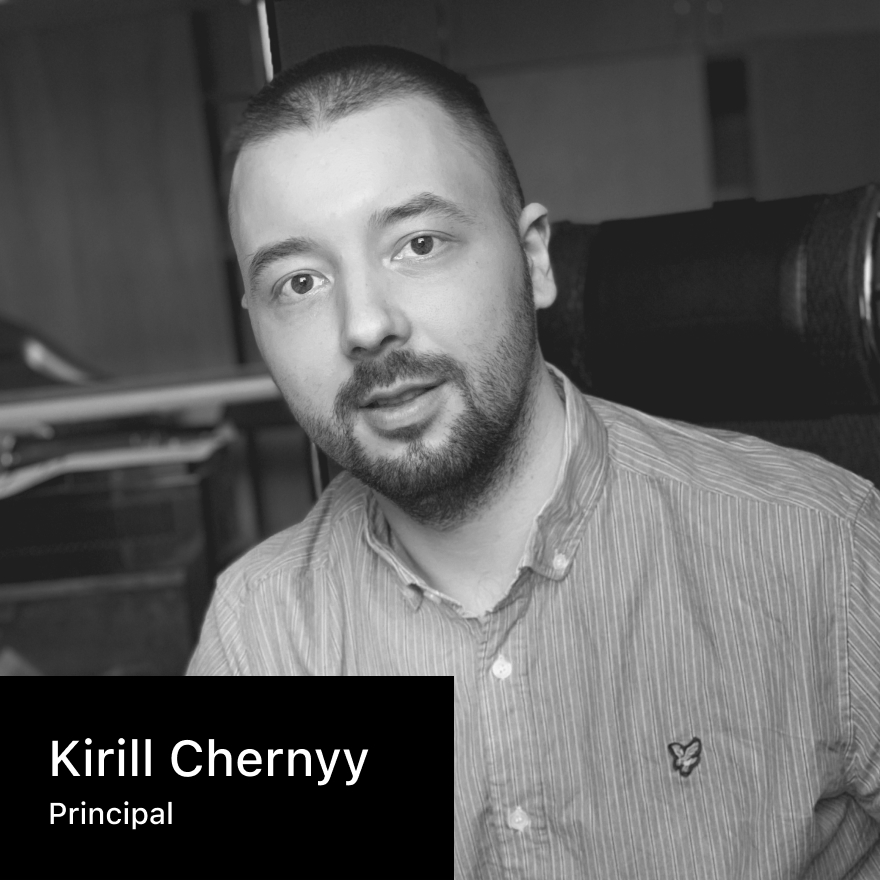
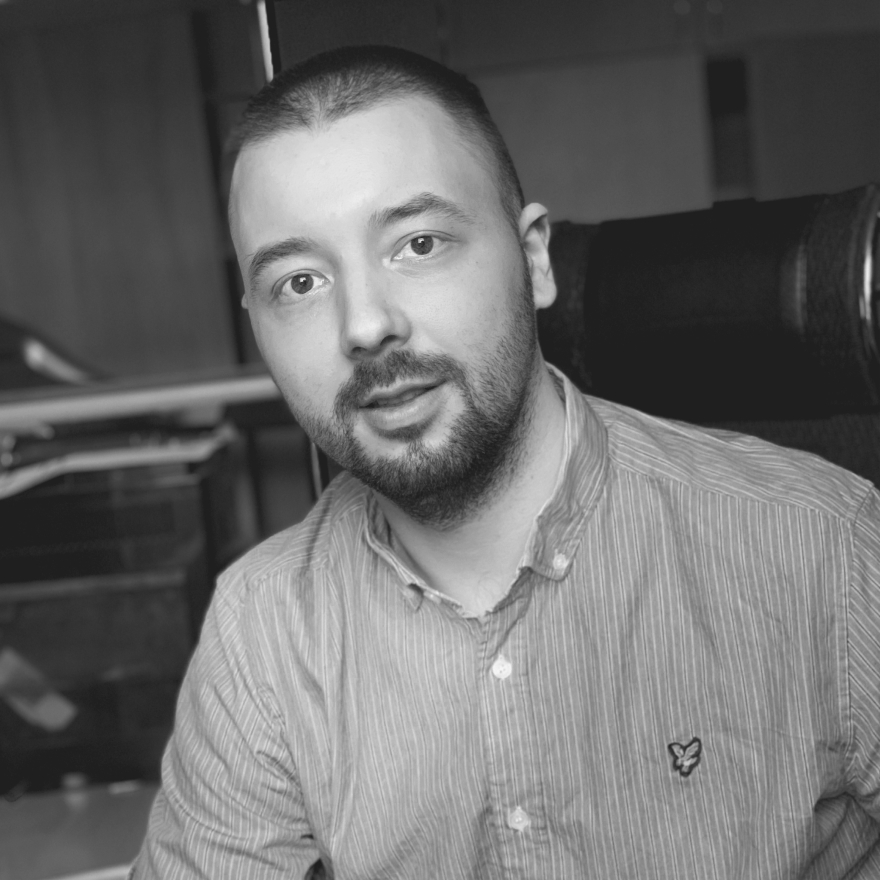
added about section

Changed region(s): [[0.0, 0.767, 0.5216, 1.0]]

diff --git a/build/css/main.min.css b/build/css/main.min.css
@@ -1,2 +1,2 @@
-@charset "UTF-8";*,::after,::before{-webkit-box-sizing:border-box;box-sizing:border-box}ol[class],ul[class]{padding:0}blockquote,body,dd,dl,figcaption,figure,h1,h2,h3,h4,h5,h6,li,ol[class],p,ul[class]{margin:0}html{scroll-behavior:smooth}body{min-height:100vh;scroll-behavior:smooth;text-rendering:optimizeSpeed;line-height:1.35}ol[class],ul[class]{list-style:none}a:not([class]){-webkit-text-decoration-skip:ink;text-decoration-skip-ink:auto}img{max-width:100%;display:block}article>*+*{margin-top:1em}button,input,select,textarea{font:inherit}@media (prefers-reduced-motion:reduce){*{-webkit-animation-duration:0s!important;animation-duration:0s!important;-webkit-animation-iteration-count:1!important;animation-iteration-count:1!important;-webkit-transition-duration:0s!important;-o-transition-duration:0s!important;transition-duration:0s!important;scroll-behavior:auto!important}}body{-webkit-font-smoothing:antialiased;-moz-font-smoothing:antialiased;-o-font-smoothing:antialiased;-webkit-locale:auto;white-space:normal}html{-moz-text-size-adjust:100%;-ms-text-size-adjust:100%;-o-text-size-adjust:100%;-webkit-text-size-adjust:100%;text-size-adjust:100%}@font-face{font-family:SF-Pro-Display;src:local("SFProDisplay-Bold"),url(../fonts/SFProDisplay-Bold.woff2) format("woff2"),url(../fonts/SFProDisplay-Bold.woff) format("woff");font-weight:700;font-style:normal;font-display:swap}@font-face{font-family:SF-Pro-Display;src:local("SFProDisplay-Semibold"),url(../fonts/SFProDisplay-Semibold.woff2) format("woff2"),url(../fonts/SFProDisplay-Semibold.woff) format("woff");font-weight:600;font-style:normal;font-display:swap}@font-face{font-family:SF-Pro-Display;src:local("SFProDisplay-Medium"),url(../fonts/SFProDisplay-Medium.woff2) format("woff2"),url(../fonts/SFProDisplay-Medium.woff) format("woff");font-weight:500;font-style:normal;font-display:swap}@font-face{font-family:SF-Pro-Display;src:local("SFProDisplay-Regular"),url(../fonts/SFProDisplay-Regular.woff2) format("woff2"),url(../fonts/SFProDisplay-Regular.woff) format("woff");font-weight:400;font-style:normal;font-display:swap}@font-face{font-family:SF-Pro-Text;src:local("SFUIText-Semibold"),url(../fonts/SFUIText-Semibold.woff2) format("woff2"),url(../fonts/SFUIText-Semibold.woff) format("woff");font-weight:500;font-style:normal;font-display:swap}@font-face{font-family:SF-Pro-Text;src:local("SFUIText-Medium"),url(../fonts/SFUIText-Medium.woff2) format("woff2"),url(../fonts/SFUIText-Medium.woff) format("woff");font-weight:500;font-style:normal;font-display:swap}@font-face{font-family:SF-Pro-Text;src:local("SFUIText-Regular"),url(../fonts/SFUIText-Regular.woff2) format("woff2"),url(../fonts/SFUIText-Regular.woff) format("woff");font-weight:500;font-style:normal;font-display:swap}html{font-size:16px}body{font-family:SF-Pro-Display,sans-serif;color:#000}.container{width:82.875vw;padding:0 15px;margin:0 auto;max-width:100%}@media only screen and (max-width:767px){.container{padding:0;width:calc(100% - 50px)}}.title{font-family:SF-Pro-Display,sans-serif}.title--bigest{font-weight:600;font-size:105px;line-height:90%}@media only screen and (min-width:1600px){.title--bigest{font-size:6.5625vw}}@media only screen and (max-width:1400px){.title--bigest{font-size:90px}}@media only screen and (max-width:1079px){.title--bigest{font-size:8.125vw}}@media only screen and (max-width:560px){.title--bigest{font-size:12.5vw;line-height:95%}}.title--white{color:#fff}.text{font-family:SF-Pro-Text,sans-serif}.text--big{font-weight:600;font-size:25px;line-height:130%;letter-spacing:.01em}@media only screen and (min-width:1600px){.text--big{font-size:1.5625vw}}@media only screen and (max-width:1079px){.text--big{font-size:2.1875vw}}@media only screen and (max-width:560px){.text--big{font-size:4.6875vw}}.text--white{color:#fff}.header{background-color:transparent;position:fixed;top:0;left:0;right:0;z-index:10}.header__burger{display:none}@media only screen and (max-width:767px){.header__burger{display:-webkit-box;display:-ms-flexbox;display:flex;-webkit-box-orient:vertical;-webkit-box-direction:normal;-ms-flex-direction:column;flex-direction:column;-webkit-box-pack:justify;-ms-flex-pack:justify;justify-content:space-between;position:relative;width:48px;height:18px}}@media only screen and (max-width:560px){.header__burger{width:7.5vw;height:2.8125vw}}.header__burger::after{content:"";position:absolute;width:12.5vw;height:8.4375vw;top:-2.8125vw;bottom:-2.8125vw;left:-2.5vw;right:-2.5vw}.header__line{width:100%;height:4px;background-color:#fff}@media only screen and (max-width:560px){.header__line{height:.625vw}}.header__wrapper{background-color:transparent;display:-webkit-box;display:-ms-flexbox;display:flex;-webkit-box-pack:justify;-ms-flex-pack:justify;justify-content:space-between;-webkit-box-align:center;-ms-flex-align:center;align-items:center;padding:36px 49px}@media only screen and (max-width:767px){.header__wrapper{padding:6.875vw 7.5vw}}@media only screen and (min-width:1600px){.header__wrapper{padding:2.25vw 3.0625vw}}.header__logo-link{text-decoration:none;text-transform:uppercase;font-weight:700;font-size:30px;line-height:1.2;color:#fff;letter-spacing:.03em}@media only screen and (min-width:1600px){.header__logo-link{font-size:1.875vw}}@media only screen and (max-width:560px){.header__logo-link{font-size:5.625vw}}.footer{position:fixed;bottom:0;left:0;right:0;z-index:10}@media only screen and (max-width:767px){.footer{display:none}}.footer__wrapper{display:-webkit-box;display:-ms-flexbox;display:flex;-webkit-box-pack:justify;-ms-flex-pack:justify;justify-content:space-between;padding:39px 47px}@media only screen and (min-width:1600px){.footer__wrapper{padding:2.1875vw 3.0625vw}}@media only screen and (max-width:767px){.footer__wrapper{padding:12.5vw 15.3125vw}}.footer__social .social__link:first-child svg{width:10px}@media only screen and (min-width:1600px){.footer__social .social__link:first-child svg{width:.625vw}}.footer__social .social__link:not(:last-child){margin-right:40px}@media only screen and (min-width:1600px){.footer__social .social__link:not(:last-child){margin-right:2.1875vw}}.footer__social svg{fill:#fff}.footer__copy{font-size:15px;line-height:1.2;font-family:SF-Pro-Text,sans-serif;font-weight:400;color:#fff}@media only screen and (min-width:1600px){.footer__copy{font-size:.9375vw}}.navigation{padding:0 0 10px}@media only screen and (min-width:1600px){.navigation{padding:0 0 .625vw}}@media only screen and (max-width:1079px){.navigation{padding:0}}@media only screen and (max-width:767px){.navigation{position:absolute;right:-150%;top:0;display:-webkit-box;display:-ms-flexbox;display:flex;-webkit-box-orient:vertical;-webkit-box-direction:normal;-ms-flex-direction:column;flex-direction:column;-webkit-box-pack:justify;-ms-flex-pack:justify;justify-content:space-between;height:100vh;width:100%;background-color:#fff;-webkit-transition:.3s linear;-o-transition:.3s linear;transition:.3s linear;padding:7.5vw 7.5vw 9.6875vw;z-index:100}}.navigation.is-active{right:0}.navigation .navigation__mobile-footer,.navigation .navigation__mobile-heading{display:none}@media only screen and (max-width:767px){.navigation .navigation__mobile-footer,.navigation .navigation__mobile-heading{display:-webkit-box;display:-ms-flexbox;display:flex;-webkit-box-align:center;-ms-flex-align:center;align-items:center;-webkit-box-pack:justify;-ms-flex-pack:justify;justify-content:space-between}}.navigation__list{display:-webkit-box;display:-ms-flexbox;display:flex}@media only screen and (max-width:767px){.navigation__list{-webkit-box-orient:vertical;-webkit-box-direction:normal;-ms-flex-direction:column;flex-direction:column;padding-bottom:37px!important}}.navigation__item:not(:last-child){margin-right:2.5vw}@media only screen and (max-width:767px){.navigation__item:not(:last-child){margin-right:0}}@media only screen and (max-width:767px){.navigation__item:not(:first-child){margin-top:20px}}.navigation__link{text-decoration:none;color:#fff;font-size:13px;text-transform:uppercase;font-weight:500;-webkit-transition:color .3s;-o-transition:color .3s;transition:color .3s}@media only screen and (max-width:767px){.navigation__link{color:#000;text-transform:capitalize;font-size:6.25vw;line-height:1.17857;font-weight:600;letter-spacing:.03em}}@media only screen and (max-width:560px){.navigation__link{font-size:8.75vw}}@media only screen and (min-width:1600px){.navigation__link{font-size:.8125vw}}@media (min-width:1080px){.navigation__link:hover{color:#cf3421}}.navigation__link.current{color:#cf3421}.navigation__close{position:relative;width:4.375vw;height:4.375vw;display:-webkit-box;display:-ms-flexbox;display:flex;-webkit-box-align:center;-ms-flex-align:center;align-items:center;-webkit-box-pack:center;-ms-flex-pack:center;justify-content:center;border:none;outline:0;background-color:transparent;padding:0}.navigation__close::after{content:"";position:absolute;width:12.5vw;height:12.5vw;left:-4.0625vw;top:-4.0625vw;right:-4.0625vw;bottom:-4.0625vw;background-color:transparent}.navigation__close svg{height:4.375vw;width:4.375vw}.navigation__copy{font-size:15px;line-height:18px;font-family:SF-Pro-Text,sans-serif;font-weight:400}.social{display:-webkit-box;display:-ms-flexbox;display:flex;-webkit-box-align:center;-ms-flex-align:center;align-items:center;-webkit-box-pack:justify;-ms-flex-pack:justify;justify-content:space-between;width:121px}@media only screen and (max-width:767px){.social{width:37.8125vw}}.social__link svg{height:18px;width:24px}@media only screen and (min-width:1600px){.social__link svg{height:1.125vw;width:1.5vw}}@media only screen and (max-width:560px){.social__link svg{height:3.75vw;width:5.9375vw}}@media only screen and (max-width:767px){.social__link svg{height:3.125vw;width:4.6875vw}}.home{background:#222 url(../images/home-bg.jpg) no-repeat center center/cover;height:100vh;display:-webkit-box;display:-ms-flexbox;display:flex;-webkit-box-orient:vertical;-webkit-box-direction:normal;-ms-flex-direction:column;flex-direction:column;padding-top:108px}@media only screen and (min-width:1600px){.home{padding-top:6.75vw}}.home__container{position:relative;height:100%}.home__content{position:absolute;left:15px;bottom:19.5%}@media only screen and (max-width:767px){.home__content{left:0;width:100%}}@media only screen and (max-width:560px){.home__content{bottom:11.1%}}.home__row{display:-webkit-box;display:-ms-flexbox;display:flex;-webkit-box-align:center;-ms-flex-align:center;align-items:center;-webkit-box-pack:justify;-ms-flex-pack:justify;justify-content:space-between;width:710px;padding-top:2.25vw}@media only screen and (min-width:1600px){.home__row{width:44.375vw}}@media only screen and (max-width:1400px){.home__row{padding-top:0;width:645px}}@media only screen and (max-width:1079px){.home__row{width:57.5vw}}@media only screen and (max-width:560px){.home__row{width:100%}}.home__text{max-width:263px;margin-top:45px}@media only screen and (min-width:1600px){.home__text{max-width:16.4375vw;margin-top:2.8125vw}}@media only screen and (max-width:1079px){.home__text{max-width:23.125vw;margin-top:2.8125vw}}@media only screen and (max-width:560px){.home__text{max-width:48.4375vw;margin-top:15.625vw}}.home__scroll-down{margin-top:35px}@media only screen and (min-width:1600px){.home__scroll-down{margin-top:2.1875vw}}@media only screen and (max-width:560px){.home__scroll-down{margin-top:10.625vw}}.home__scroll-down svg{width:22px;height:71px}@media only screen and (max-width:560px){.home__scroll-down svg{display:none}}.home__scroll-down svg:last-child{display:none}@media only screen and (max-width:560px){.home__scroll-down svg:last-child{display:block;height:14.375vw;width:4.375vw}}@media only screen and (max-width:1079px){.home__scroll-down svg{width:2.1875vw;height:7.0625vw}}
+@charset "UTF-8";*,::after,::before{-webkit-box-sizing:border-box;box-sizing:border-box}ol[class],ul[class]{padding:0}blockquote,body,dd,dl,figcaption,figure,h1,h2,h3,h4,h5,h6,li,ol[class],p,ul[class]{margin:0}html{scroll-behavior:smooth}body{min-height:100vh;scroll-behavior:smooth;text-rendering:optimizeSpeed;line-height:1.35}ol[class],ul[class]{list-style:none}a:not([class]){-webkit-text-decoration-skip:ink;text-decoration-skip-ink:auto}img{max-width:100%;display:block}article>*+*{margin-top:1em}button,input,select,textarea{font:inherit}@media (prefers-reduced-motion:reduce){*{-webkit-animation-duration:0s!important;animation-duration:0s!important;-webkit-animation-iteration-count:1!important;animation-iteration-count:1!important;-webkit-transition-duration:0s!important;-o-transition-duration:0s!important;transition-duration:0s!important;scroll-behavior:auto!important}}body{-webkit-font-smoothing:antialiased;-moz-font-smoothing:antialiased;-o-font-smoothing:antialiased;-webkit-locale:auto;white-space:normal}html{-moz-text-size-adjust:100%;-ms-text-size-adjust:100%;-o-text-size-adjust:100%;-webkit-text-size-adjust:100%;text-size-adjust:100%}@font-face{font-family:SF-Pro-Display;src:local("SFProDisplay-Bold"),url(../fonts/SFProDisplay-Bold.woff2) format("woff2"),url(../fonts/SFProDisplay-Bold.woff) format("woff");font-weight:700;font-style:normal;font-display:swap}@font-face{font-family:SF-Pro-Display;src:local("SFProDisplay-Semibold"),url(../fonts/SFProDisplay-Semibold.woff2) format("woff2"),url(../fonts/SFProDisplay-Semibold.woff) format("woff");font-weight:600;font-style:normal;font-display:swap}@font-face{font-family:SF-Pro-Display;src:local("SFProDisplay-Medium"),url(../fonts/SFProDisplay-Medium.woff2) format("woff2"),url(../fonts/SFProDisplay-Medium.woff) format("woff");font-weight:500;font-style:normal;font-display:swap}@font-face{font-family:SF-Pro-Display;src:local("SFProDisplay-Regular"),url(../fonts/SFProDisplay-Regular.woff2) format("woff2"),url(../fonts/SFProDisplay-Regular.woff) format("woff");font-weight:400;font-style:normal;font-display:swap}@font-face{font-family:SF-Pro-Text;src:local("SFUIText-Semibold"),url(../fonts/SFUIText-Semibold.woff2) format("woff2"),url(../fonts/SFUIText-Semibold.woff) format("woff");font-weight:500;font-style:normal;font-display:swap}@font-face{font-family:SF-Pro-Text;src:local("SFUIText-Medium"),url(../fonts/SFUIText-Medium.woff2) format("woff2"),url(../fonts/SFUIText-Medium.woff) format("woff");font-weight:500;font-style:normal;font-display:swap}@font-face{font-family:SF-Pro-Text;src:local("SFUIText-Regular"),url(../fonts/SFUIText-Regular.woff2) format("woff2"),url(../fonts/SFUIText-Regular.woff) format("woff");font-weight:500;font-style:normal;font-display:swap}html{font-size:16px}body{font-family:SF-Pro-Display,sans-serif;color:#000}.container{width:82.875vw;padding:0 15px;margin:0 auto;max-width:100%}@media only screen and (max-width:767px){.container{padding:0;width:calc(100% - 50px)}}.title{font-family:SF-Pro-Display,sans-serif}.title--bigest{font-weight:600;font-size:105px;line-height:90%}@media only screen and (min-width:1600px){.title--bigest{font-size:6.5625vw}}@media only screen and (max-width:1400px){.title--bigest{font-size:90px}}@media only screen and (max-width:1079px){.title--bigest{font-size:8.125vw}}@media only screen and (max-width:560px){.title--bigest{font-size:12.5vw;line-height:95%}}.title--medium{font-weight:600;font-size:2.875vw;line-height:1.08696}.title--white{color:#fff}.text{font-family:SF-Pro-Text,sans-serif;font-weight:400;font-size:15px;line-height:140%}@media only screen and (min-width:1600px){.text{font-size:.9375vw}}.text--big{font-weight:600;font-size:25px;line-height:130%;letter-spacing:.01em}@media only screen and (min-width:1600px){.text--big{font-size:1.5625vw}}@media only screen and (max-width:1079px){.text--big{font-size:2.1875vw}}@media only screen and (max-width:560px){.text--big{font-size:4.6875vw}}.text--small{font-size:13px}@media only screen and (min-width:1600px){.text--small{font-size:.8125vw}}.text--red{color:#cf3421}.text--upper{text-transform:uppercase}.text--white{color:#fff}.header{background-color:transparent;position:fixed;top:0;left:0;right:0;z-index:10}.header__burger{display:none}@media only screen and (max-width:767px){.header__burger{display:-webkit-box;display:-ms-flexbox;display:flex;-webkit-box-orient:vertical;-webkit-box-direction:normal;-ms-flex-direction:column;flex-direction:column;-webkit-box-pack:justify;-ms-flex-pack:justify;justify-content:space-between;position:relative;width:48px;height:18px}}@media only screen and (max-width:560px){.header__burger{width:7.5vw;height:2.8125vw}}.header__burger::after{content:"";position:absolute;width:12.5vw;height:8.4375vw;top:-2.8125vw;bottom:-2.8125vw;left:-2.5vw;right:-2.5vw}.header__line{width:100%;height:4px;background-color:#fff}@media only screen and (max-width:560px){.header__line{height:.625vw}}.header__wrapper{background-color:transparent;display:-webkit-box;display:-ms-flexbox;display:flex;-webkit-box-pack:justify;-ms-flex-pack:justify;justify-content:space-between;-webkit-box-align:center;-ms-flex-align:center;align-items:center;padding:36px 49px}@media only screen and (max-width:767px){.header__wrapper{padding:6.875vw 7.5vw}}@media only screen and (min-width:1600px){.header__wrapper{padding:2.25vw 3.0625vw}}.header__logo-link{text-decoration:none;text-transform:uppercase;font-weight:700;font-size:30px;line-height:1.2;color:#fff;letter-spacing:.03em}@media only screen and (min-width:1600px){.header__logo-link{font-size:1.875vw}}@media only screen and (max-width:560px){.header__logo-link{font-size:5.625vw}}.footer{position:fixed;bottom:0;left:0;right:0;z-index:10}@media only screen and (max-width:767px){.footer{display:none}}.footer__wrapper{display:-webkit-box;display:-ms-flexbox;display:flex;-webkit-box-pack:justify;-ms-flex-pack:justify;justify-content:space-between;padding:39px 47px}@media only screen and (min-width:1600px){.footer__wrapper{padding:2.1875vw 3.0625vw}}@media only screen and (max-width:767px){.footer__wrapper{padding:12.5vw 15.3125vw}}.footer__social .social__link:first-child svg{width:10px}@media only screen and (min-width:1600px){.footer__social .social__link:first-child svg{width:.625vw}}.footer__social .social__link:not(:last-child){margin-right:40px}@media only screen and (min-width:1600px){.footer__social .social__link:not(:last-child){margin-right:2.1875vw}}.footer__social svg{fill:#fff}.footer__copy{font-size:15px;line-height:1.2;font-family:SF-Pro-Text,sans-serif;font-weight:400;color:#fff}@media only screen and (min-width:1600px){.footer__copy{font-size:.9375vw}}.navigation{padding:0 0 10px}@media only screen and (min-width:1600px){.navigation{padding:0 0 .625vw}}@media only screen and (max-width:1079px){.navigation{padding:0}}@media only screen and (max-width:767px){.navigation{position:absolute;right:-150%;top:0;display:-webkit-box;display:-ms-flexbox;display:flex;-webkit-box-orient:vertical;-webkit-box-direction:normal;-ms-flex-direction:column;flex-direction:column;-webkit-box-pack:justify;-ms-flex-pack:justify;justify-content:space-between;height:100vh;width:100%;background-color:#fff;-webkit-transition:.3s linear;-o-transition:.3s linear;transition:.3s linear;padding:7.5vw 7.5vw 9.6875vw;z-index:100}}.navigation.is-active{right:0}.navigation .navigation__mobile-footer,.navigation .navigation__mobile-heading{display:none}@media only screen and (max-width:767px){.navigation .navigation__mobile-footer,.navigation .navigation__mobile-heading{display:-webkit-box;display:-ms-flexbox;display:flex;-webkit-box-align:center;-ms-flex-align:center;align-items:center;-webkit-box-pack:justify;-ms-flex-pack:justify;justify-content:space-between}}.navigation__list{display:-webkit-box;display:-ms-flexbox;display:flex}@media only screen and (max-width:767px){.navigation__list{-webkit-box-orient:vertical;-webkit-box-direction:normal;-ms-flex-direction:column;flex-direction:column;padding-bottom:37px!important}}.navigation__item:not(:last-child){margin-right:2.5vw}@media only screen and (max-width:767px){.navigation__item:not(:last-child){margin-right:0}}@media only screen and (max-width:767px){.navigation__item:not(:first-child){margin-top:20px}}.navigation__link{text-decoration:none;color:#fff;font-size:13px;text-transform:uppercase;font-weight:500;-webkit-transition:color .3s;-o-transition:color .3s;transition:color .3s}@media only screen and (max-width:767px){.navigation__link{color:#000;text-transform:capitalize;font-size:6.25vw;line-height:1.17857;font-weight:600;letter-spacing:.03em}}@media only screen and (max-width:560px){.navigation__link{font-size:8.75vw}}@media only screen and (min-width:1600px){.navigation__link{font-size:.8125vw}}@media (min-width:1080px){.navigation__link:hover{color:#cf3421}}.navigation__link.current{color:#cf3421}.navigation__close{position:relative;width:4.375vw;height:4.375vw;display:-webkit-box;display:-ms-flexbox;display:flex;-webkit-box-align:center;-ms-flex-align:center;align-items:center;-webkit-box-pack:center;-ms-flex-pack:center;justify-content:center;border:none;outline:0;background-color:transparent;padding:0}.navigation__close::after{content:"";position:absolute;width:12.5vw;height:12.5vw;left:-4.0625vw;top:-4.0625vw;right:-4.0625vw;bottom:-4.0625vw;background-color:transparent}.navigation__close svg{height:4.375vw;width:4.375vw}.navigation__copy{font-size:15px;line-height:18px;font-family:SF-Pro-Text,sans-serif;font-weight:400}.social{display:-webkit-box;display:-ms-flexbox;display:flex;-webkit-box-align:center;-ms-flex-align:center;align-items:center;-webkit-box-pack:justify;-ms-flex-pack:justify;justify-content:space-between;width:121px}@media only screen and (max-width:767px){.social{width:37.8125vw}}.social__link svg{height:18px;width:24px}@media only screen and (min-width:1600px){.social__link svg{height:1.125vw;width:1.5vw}}@media only screen and (max-width:560px){.social__link svg{height:3.75vw;width:5.9375vw}}@media only screen and (max-width:767px){.social__link svg{height:3.125vw;width:4.6875vw}}.home{background:#222 url(../images/home-bg.jpg) no-repeat center center/cover;height:100vh;display:-webkit-box;display:-ms-flexbox;display:flex;-webkit-box-orient:vertical;-webkit-box-direction:normal;-ms-flex-direction:column;flex-direction:column;padding-top:108px}@media only screen and (min-width:1600px){.home{padding-top:6.75vw}}.home__container{position:relative;height:100%}.home__content{position:absolute;left:15px;bottom:19.5%}@media only screen and (max-width:767px){.home__content{left:0;width:100%}}@media only screen and (max-width:560px){.home__content{bottom:11.1%}}.home__row{display:-webkit-box;display:-ms-flexbox;display:flex;-webkit-box-align:center;-ms-flex-align:center;align-items:center;-webkit-box-pack:justify;-ms-flex-pack:justify;justify-content:space-between;width:710px;padding-top:2.25vw}@media only screen and (min-width:1600px){.home__row{width:44.375vw}}@media only screen and (max-width:1400px){.home__row{padding-top:0;width:645px}}@media only screen and (max-width:1079px){.home__row{width:57.5vw}}@media only screen and (max-width:560px){.home__row{width:100%}}.home__text{max-width:263px;margin-top:45px}@media only screen and (min-width:1600px){.home__text{max-width:16.4375vw;margin-top:2.8125vw}}@media only screen and (max-width:1079px){.home__text{max-width:23.125vw;margin-top:2.8125vw}}@media only screen and (max-width:560px){.home__text{max-width:48.4375vw;margin-top:15.625vw}}.home__scroll-down{margin-top:35px}@media only screen and (min-width:1600px){.home__scroll-down{margin-top:2.1875vw}}@media only screen and (max-width:560px){.home__scroll-down{margin-top:10.625vw}}.home__scroll-down svg{width:22px;height:71px}@media only screen and (max-width:560px){.home__scroll-down svg{display:none}}.home__scroll-down svg:last-child{display:none}@media only screen and (max-width:560px){.home__scroll-down svg:last-child{display:block;height:14.375vw;width:4.375vw}}@media only screen and (max-width:1079px){.home__scroll-down svg{width:2.1875vw;height:7.0625vw}}.about{min-height:100vh;display:-webkit-box;display:-ms-flexbox;display:flex;-webkit-box-align:center;-ms-flex-align:center;align-items:center;padding:100px 0 39px}@media only screen and (max-width:1079px){.about{padding:19.375vw 0 12.1875vw}}@media only screen and (min-width:1600px){.about{padding:6.25vw 0 2.4375vw}}.about__wrapper{display:-webkit-box;display:-ms-flexbox;display:flex}@media only screen and (max-width:1079px){.about__wrapper{-webkit-box-orient:vertical;-webkit-box-direction:normal;-ms-flex-direction:column;flex-direction:column}}@media only screen and (max-width:1079px){.about__title{font-size:30px}}@media only screen and (max-width:560px){.about__title{font-size:28px}}.about__image{position:relative;width:27.5vw;height:27.5vw;margin-right:6.875vw;-ms-flex-negative:0;flex-shrink:0}@media only screen and (max-width:1079px){.about__image{width:330px;height:330px}}@media only screen and (max-width:560px){.about__image{width:100%;height:auto}}.about__tag{position:absolute;bottom:0;left:0;padding:1.5vw 2.625vw 1.5vw 1.5vw;z-index:5;background-color:#000;display:-webkit-box;display:-ms-flexbox;display:flex;-webkit-box-orient:vertical;-webkit-box-direction:normal;-ms-flex-direction:column;flex-direction:column}@media only screen and (max-width:1079px){.about__tag{padding:20px 46px 20px 20px}}@media only screen and (max-width:560px){.about__tag{padding:21px 24px}}.about__name{font-size:1.5625vw}@media only screen and (max-width:1079px){.about__name{font-size:20px}}.about__rank{font-weight:500;margin-top:3px}@media only screen and (max-width:1079px){.about__rank{font-size:15px}}.about__content{display:-webkit-box;display:-ms-flexbox;display:flex;-webkit-box-orient:vertical;-webkit-box-direction:normal;-ms-flex-direction:column;flex-direction:column;min-height:100%;padding-bottom:1.125vw}@media only screen and (max-width:1079px){.about__content{margin-top:30px}}.about__row{display:-webkit-box;display:-ms-flexbox;display:flex;margin-top:1.0625vw}@media only screen and (max-width:1400px){.about__row{-webkit-box-orient:vertical;-webkit-box-direction:normal;-ms-flex-direction:column;flex-direction:column;margin-top:1.5625vw;margin-bottom:1.5625vw}}@media only screen and (max-width:1079px){.about__row{margin-top:0;margin-bottom:0}}.about__text{max-width:20.625vw}@media only screen and (max-width:767px){.about__text{font-size:15px;line-height:140%}}@media only screen and (max-width:1400px){.about__text{max-width:100%}}.about__text:first-child{margin-right:5.375vw}@media only screen and (max-width:1400px){.about__text:first-child{margin-right:0}}@media only screen and (max-width:1079px){.about__text:first-child{margin-top:30px}}@media only screen and (max-width:1400px){.about__text:last-child{margin-top:.625vw}}@media only screen and (max-width:1079px){.about__text:last-child{margin-top:30px}}.about__links{margin-top:auto;display:-webkit-box;display:-ms-flexbox;display:flex;-ms-flex-wrap:wrap;flex-wrap:wrap}@media only screen and (max-width:1079px){.about__links{margin-top:40px}}.about__link{text-decoration:none;letter-spacing:.03em;display:inline-block;margin-top:11px}.about__link:not(:last-child){margin-right:2.5vw}
 /*# sourceMappingURL=maps/main.min.css.map */

diff --git a/src/styles/blocks/about.scss b/src/styles/blocks/about.scss
@@ -1,0 +1,167 @@
+.about {
+	min-height: 100vh;
+	display: flex;
+	align-items: center;
+	padding: 100px 0 39px;
+
+	@include max(md) {
+		padding: vws(62) 0 vws(39);
+	}
+
+	@include min(1600) {
+		padding: vw(100) 0 vw(39);
+	}
+
+	&__wrapper {
+		display: flex;
+
+		@include max(md) {
+			flex-direction: column;
+		}
+	}
+
+	&__title {
+		@include max(md) {
+			font-size: 30px;
+		}
+
+		@include max(xs) {
+			font-size: 28px;
+		}
+	}
+
+	&__image {
+		position: relative;
+		width: vw(440);
+		height: vw(440);
+		margin-right: vw(110);
+		flex-shrink: 0;
+
+		@include max(md) {
+			width: 330px;
+			height: 330px;
+		}
+
+		@include max(xs) {
+			width: 100%;
+			height: auto;
+		}
+	}
+
+	&__tag {
+		position: absolute;
+		bottom: 0;
+		left: 0;
+		padding: vw(24) vw(42) vw(24) vw(24);
+		z-index: 5;
+		background-color: $black;
+		display: flex;
+		flex-direction: column;
+
+		@include max(md) {
+			padding: 20px 46px 20px 20px;
+		}
+
+		@include max(xs) {
+			padding: 21px 24px;
+		}
+	}
+
+	&__name {
+		font-size: vw(25);
+		@include max(md) {
+			font-size: 20px;
+		}
+	}
+
+	&__rank {
+		font-weight: 500;
+		margin-top: 3px;
+
+		@include max(md) {
+			font-size: 15px;
+		}
+	}
+
+	&__content {
+		display: flex;
+		flex-direction: column;
+		min-height: 100%;
+		padding-bottom: vw(18);
+
+		@include max(md) {
+			margin-top: 30px;
+		}
+	}
+
+	&__row {
+		display: flex;
+		margin-top: vw(17);
+
+		@include max(1400) {
+			flex-direction: column;
+			margin-top: vw(25);
+			margin-bottom: vw(25);
+		}
+
+		@include max(md) {
+			margin-top: 0;
+			margin-bottom: 0;
+		}
+	}
+
+	&__text {
+		max-width: vw(330);
+
+		@include max(sm) {
+			font-size: 15px;
+			line-height: 140%;
+		}
+
+		@include max(1400) {
+			max-width: 100%;
+		}
+		&:first-child {
+			margin-right: vw(86);
+
+			@include max(1400) {
+				margin-right: 0;
+			}
+
+			@include max(md) {
+				margin-top: 30px;
+			}
+		}
+
+		&:last-child {
+			@include max(1400) {
+				margin-top: vw(10);
+			}
+
+			@include max(md) {
+				margin-top: 30px;
+			}
+		}
+	}
+
+	&__links {
+		margin-top: auto;
+		display: flex;
+		flex-wrap: wrap;
+
+		@include max(md) {
+			margin-top: 40px;
+		}
+	}
+
+	&__link {
+		text-decoration: none;
+		letter-spacing: 0.03em;
+		display: inline-block;
+		margin-top: 11px;
+
+		&:not(:last-child) {
+			margin-right: vw(40);
+		}
+	}
+}

diff --git a/build/index.html b/build/index.html
@@ -63,7 +63,21 @@
         </div>
       </section>
       <section class="about section">
-        <div class="container"></div>
+        <div class="container">
+          <div class="about__wrapper">
+            <div class="about__image"> <img src="images/about-photo.jpg" alt="">
+              <div class="about__tag"><span class="about__name text text--big text--white">Kirill Chernyy</span><span class="about__rank text text--white">Principal</span></div>
+            </div>
+            <div class="about__content">
+              <h2 class="title title--medium about__title">Hey,</br>a brief intro about us!</h2>
+              <div class="about__row"> 
+                <p class="text about__text">INSTER STUDIO is a creative rendering studio specializing in high-end architectural visualisation based in Kaliningrad, Russia. We help customers on a global basis. With expertise and experience accumulated</p>
+                <p class="text about__text">over more than years of work, we create engaging impactful images that enable our clientele to communicate their ideas to life in the best possible way. We value our relationships with our customers. Our goal is to forge a long-term business partnerships.</p>
+              </div>
+              <div class="about__links"> <a class="about__link text text--small text--red text--upper" href="#">/ Interior and exterior 3d renderings </a><a class="about__link text text--small text--red text--upper" href="#">/ 3d roduct visualization</a><a class="about__link text text--small text--red text--upper" href="#">/ Photo-montages    </a><a class="about__link text text--small text--red text--upper" href="#">/ 2d and 3d floor plan renderings.</a></div>
+            </div>
+          </div>
+        </div>
       </section>
       <section class="portfolio section"></section>
       <section class="awards section">

diff --git a/src/styles/base/ui.scss b/src/styles/base/ui.scss
@@ -24,6 +24,12 @@
 		}
 	}
 
+	&--medium {
+		font-weight: 600;
+		font-size: vw(46);
+		line-height: (50 / 46);
+	}
+
 	&--white {
 		color: $white;
 	}
@@ -31,6 +37,13 @@
 
 .text {
 	font-family: $secondaryFont;
+	font-weight: normal;
+	font-size: 15px;
+	line-height: 140%;
+
+	@include min(1600) {
+		font-size: vw(15);
+	}
 
 	&--big {
 		font-weight: 600;
@@ -49,6 +62,22 @@
 		@include max(xs) {
 			font-size: vws(15);
 		}
+	}
+
+	&--small {
+		font-size: 13px;
+
+		@include min(1600) {
+			font-size: vw(13);
+		}
+	}
+
+	&--red {
+		color: $red;
+	}
+
+	&--upper {
+		text-transform: uppercase;
 	}
 
 	&--white {

diff --git a/src/styles/main.scss b/src/styles/main.scss
@@ -20,3 +20,4 @@
 
 /*blocks*/
 @import "blocks/home";
+@import "blocks/about";
